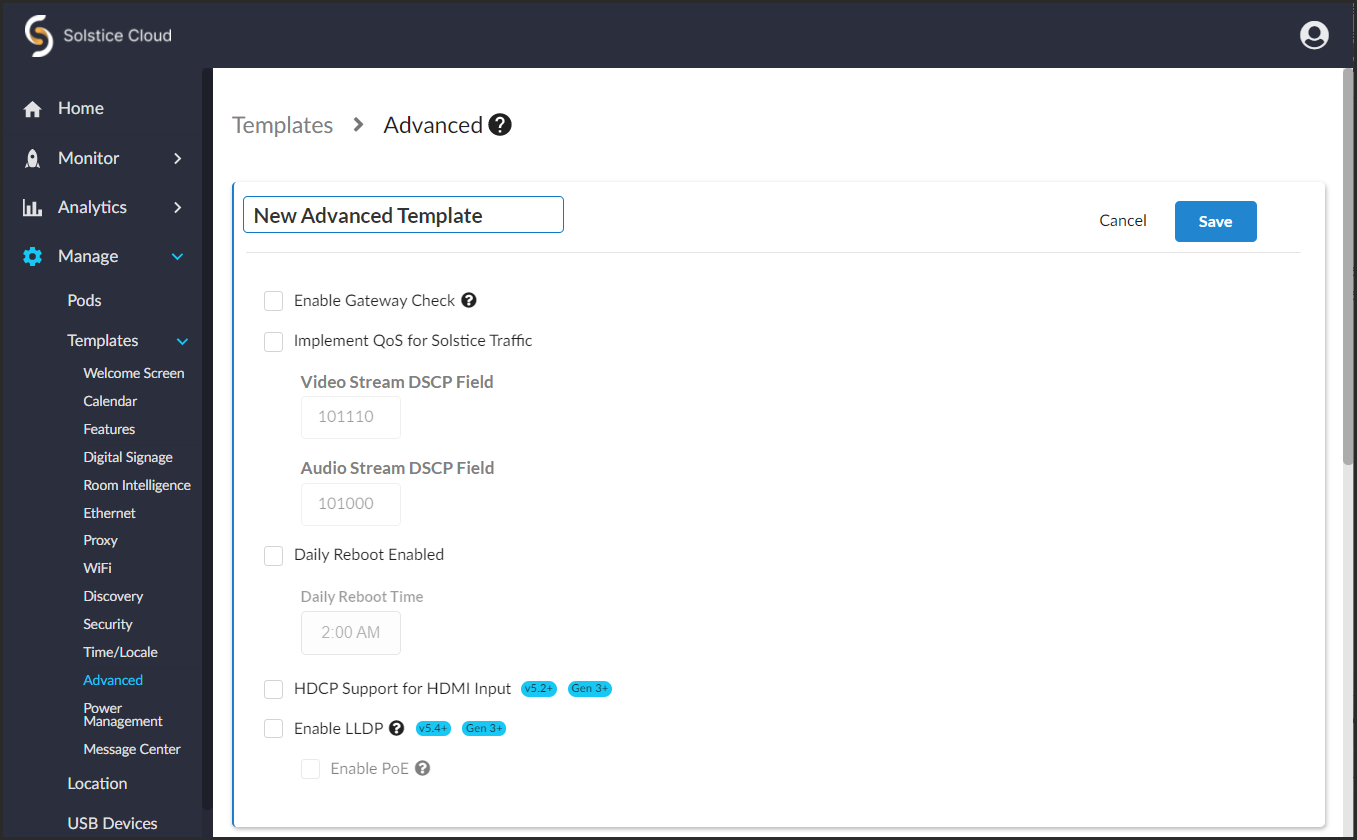
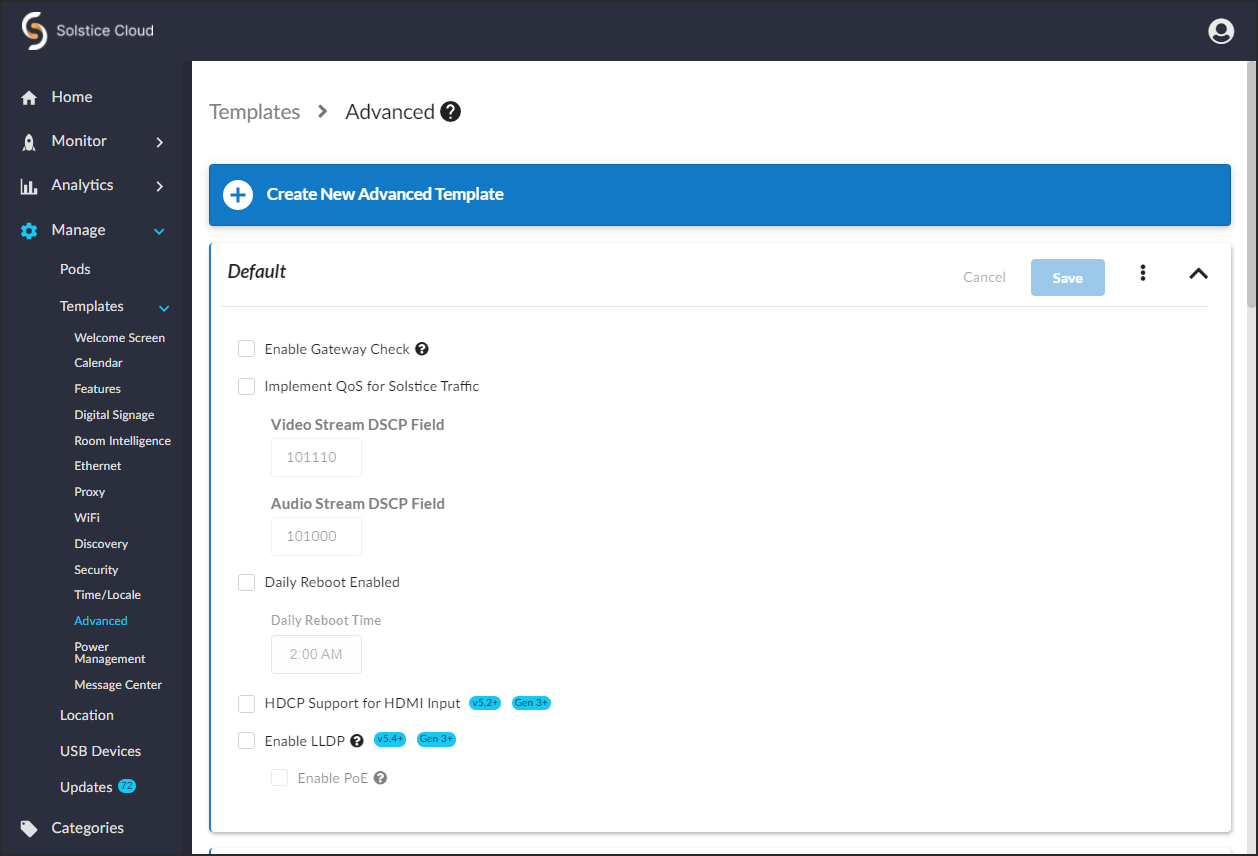
Updates for Cloud 1.50 release and standardizing Cloud > Template screenshot names

Changed region(s): [[0.0, 0.0, 1.0, 1.0], [0.217, 0.65, 0.341, 0.7738], [0.0, 0.0, 0.124, 0.0619]]

diff --git a/Content/Topics/Cloud-Template-Features.htm b/Content/Topics/Cloud-Template-Features.htm
@@ -7,7 +7,7 @@
         <h1>Features Template</h1>
         <p>The Features template allows you to configure options for how attendees may view and interact with the Solstice display. There are options that determine how attendees can connect to the meeting, as well as how they may view and share content on their personal devices. Miracast support for Windows devices can also be enabled. For more information on how to configure Solstice to support sharing with AirPlay and Miracast, see <a href="Admin-Enabling-AirPlay.htm" target="_blank">Enable Sharing with AirPlay</a> and <a href="Admin-Enabling-Miracast.htm" target="_blank">Enable Sharing with Miracast</a>.</p>
         <p>
-            <img src="../Resources/Images/Templates-sidebarnav-features.png" style="border-left-style: solid;border-left-width: ;border-left-color: ;border-right-style: solid;border-right-width: ;border-right-color: ;border-top-style: solid;border-top-width: ;border-top-color: ;border-bottom-style: solid;border-bottom-width: ;border-bottom-color: ;border-top-left-radius: 1px;border-top-right-radius: 1px;border-bottom-right-radius: 1px;border-bottom-left-radius: 1px;height: auto;width: 90%;" />
+            <img src="../Resources/Images/ex_CloudTemplateFeatures.png" style="border-left-style: solid;border-left-width: ;border-left-color: ;border-right-style: solid;border-right-width: ;border-right-color: ;border-top-style: solid;border-top-width: ;border-top-color: ;border-bottom-style: solid;border-bottom-width: ;border-bottom-color: ;border-top-left-radius: 1px;border-top-right-radius: 1px;border-bottom-right-radius: 1px;border-bottom-left-radius: 1px;height: auto;width: 90%;" />
         </p>
         <h2>How To</h2>
         <MadCap:dropDown>
@@ -105,6 +105,15 @@
                     <li>Select <b>Enable clientless sharing via browser</b> Available to Gen2i and Gen3 Pods only.</li>
                     <li>Click <b>Save</b>.</li>
                 </ol>
+            </MadCap:dropDownBody>
+        </MadCap:dropDown>
+        <MadCap:dropDown MadCap:conditions="Default.5-4_Release">
+            <MadCap:dropDownHead>
+                <MadCap:dropDownHotspot>Route USB&#160;Audio to HDMI&#160;Out</MadCap:dropDownHotspot>
+            </MadCap:dropDownHead>
+            <MadCap:dropDownBody>
+                <MadCap:snippetBlock src="../Resources/Snippets/info_SolsticeRouteAudiotoHDMIIntro.flsnp" />
+                <MadCap:snippetBlock src="../Resources/Snippets/howto_CloudRouteAudotoHDMIOut.flsnp" />
             </MadCap:dropDownBody>
         </MadCap:dropDown>
         <MadCap:dropDown>

diff --git a/Content/Topics/Cloud-Template-Security.htm b/Content/Topics/Cloud-Template-Security.htm
@@ -7,7 +7,7 @@
         <h1>Security Template</h1>
         <p>A Solstice Pod is a network-attached device that provides straightforward and secure wireless access to existing display infrastructure by leveraging a host IT network. By configuring your Pods according to these guidelines, users will be able to quickly connect and share content to the displays in Pod-enabled rooms while still maintaining network security standards. Pods that are not configured properly can be vulnerable to user and network security breaches, including unauthorized user access, screen capture and recording, unauthorized changes to configuration settings, and denial-of-service attacks. </p>
         <p>
-            <img src="../Resources/Images/Templates-sidebarnav-Security.png" style="height: auto;width: 90%;" />
+            <img src="../Resources/Images/ex_CloudTemplateSecurity.png" style="height: auto;width: 90%;" />
         </p>
         <h2>How To</h2>
         <MadCap:dropDown>
@@ -90,6 +90,18 @@
                     <li>Click <b>Save</b>. </li>
                 </ol>
                 <p class="tip">To apply this setting to all your Pods at once, go to Manage &gt; Pods and select the checkbox at the top of the first column. This will check all the Solstice Pods available to you in the list. Click <b>Settings</b> to display the <b>Security</b> column and select the Security template with captive portal checking disabled for any one of the selected Pods. You will be prompted to confirm the change on the number of selected Pods.</p>
+            </MadCap:dropDownBody>
+        </MadCap:dropDown>
+        <MadCap:dropDown>
+            <MadCap:dropDownHead>
+                <MadCap:dropDownHotspot>Disable ICMP Pings</MadCap:dropDownHotspot>
+            </MadCap:dropDownHead>
+            <MadCap:dropDownBody>
+                <MadCap:snippetBlock src="../Resources/Snippets/info_SolsticeDisableICMPPings.flsnp" />
+                <ol>
+                    <li>To disable the ability to ping Solstice Pods, check <b>Disable ICMP pings to the Pod</b>.</li>
+                    <li>Click <b>Save</b>. </li>
+                </ol>
             </MadCap:dropDownBody>
         </MadCap:dropDown>
         <MadCap:dropDown>

diff --git a/Content/Topics/Cloud-Template-Calendar.htm b/Content/Topics/Cloud-Template-Calendar.htm
@@ -6,7 +6,7 @@
         <h1>Calendar Template</h1>
         <p>The  Calendar template allows you to display  the schedule and calendar information for the room when there is no other content being shared. Participants can see if the space is currently scheduled or available, as well as the next three upcoming meetings in the space. <MadCap:expanding MadCap:conditions="Default.ScreenOnly"><MadCap:expandingHead>Example</MadCap:expandingHead><MadCap:expandingBody><br /><img src="../Resources/Images/ex_roomcalendaring.png" style="mc-thumbnail-max-height: 80px;mc-thumbnail: none;" /></MadCap:expandingBody></MadCap:expanding></p>
         <p>
-            <img src="../Resources/Images/Templates-sidebarnav-calendar.png" style="width: 90%;height: auto;" />
+            <img src="../Resources/Images/ex_CloudTemplateCalendar.png" style="width: 90%;height: auto;" />
         </p>
         <h2>How To</h2>
         <MadCap:dropDown>

diff --git a/Content/Topics/Admin-Appearance-Settings.htm b/Content/Topics/Admin-Appearance-Settings.htm
@@ -129,9 +129,10 @@
         </MadCap:dropDown>
         <MadCap:dropDown MadCap:conditions="Default.5-4_Release">
             <MadCap:dropDownHead>
-                <MadCap:dropDownHotspot>Route Audio to HDMI&#160;Out</MadCap:dropDownHotspot>
+                <MadCap:dropDownHotspot>Route USB Audio to HDMI&#160;Out</MadCap:dropDownHotspot>
             </MadCap:dropDownHead>
             <MadCap:dropDownBody>
+                <MadCap:snippetBlock src="../Resources/Snippets/info_SolsticeRouteAudiotoHDMIIntro.flsnp" />
                 <MadCap:snippetBlock src="../Resources/Snippets/howto_AdminAppearanceAudiotoHDMI.flsnp" />
             </MadCap:dropDownBody>
         </MadCap:dropDown>

diff --git a/Content/Topics/Cloud-Template-Advanced.htm b/Content/Topics/Cloud-Template-Advanced.htm
@@ -6,9 +6,6 @@
         <h1>Advanced Template</h1>
         <p>The Advanced Template gives you the ability to configure advanced settings, such as implementing quality of service to help prioritize Solstice traffic on your enterprise network, automatically rebooting Pods to maximize performance, and enabling HDCP support to play high resolution video. </p>
         <p>
-            <img src="../Resources/Images/Templates-sidebarnav-Advanced.png" style="height: auto;width: 90%;" />
-        </p>
-        <p MadCap:conditions="Default.5-4_Release">
             <img src="../Resources/Images/ex_CloudTemplateAdvanced.png" style="width: 90%;" />
         </p>
         <h2>How To</h2>

diff --git a/Content/Topics/Admin-Security-Settings.htm b/Content/Topics/Admin-Security-Settings.htm
@@ -35,6 +35,7 @@
                 <MadCap:dropDownHotspot>Disable ICMP Pings</MadCap:dropDownHotspot>
             </MadCap:dropDownHead>
             <MadCap:dropDownBody>
+                <MadCap:snippetBlock src="../Resources/Snippets/info_SolsticeDisableICMPPings.flsnp" />
                 <MadCap:snippetBlock src="../Resources/Snippets/howto_AdminDisableICMPPings.flsnp" />
             </MadCap:dropDownBody>
         </MadCap:dropDown>
